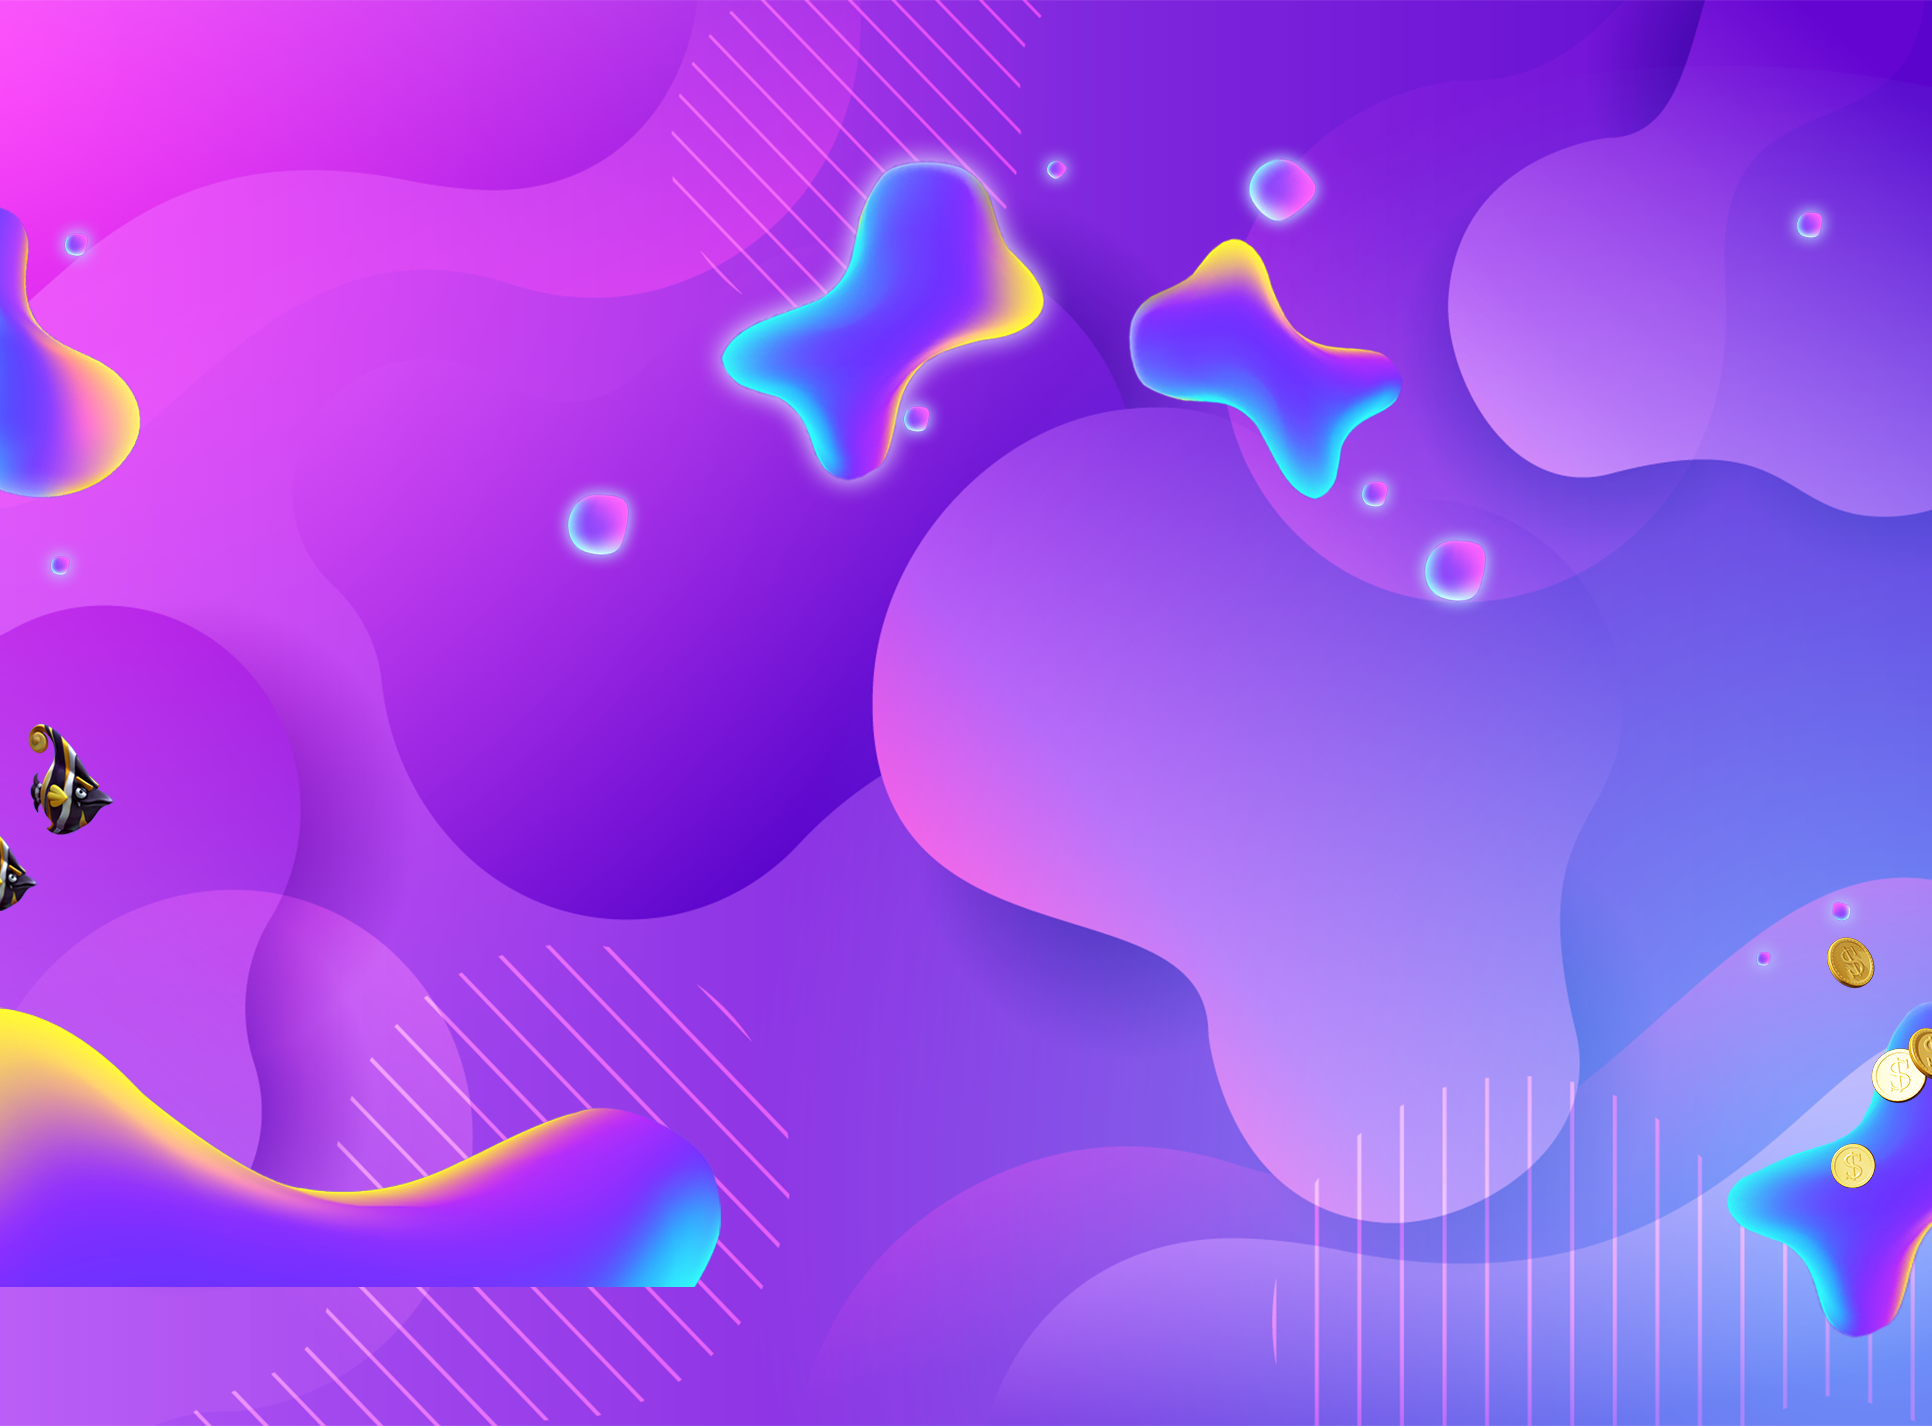
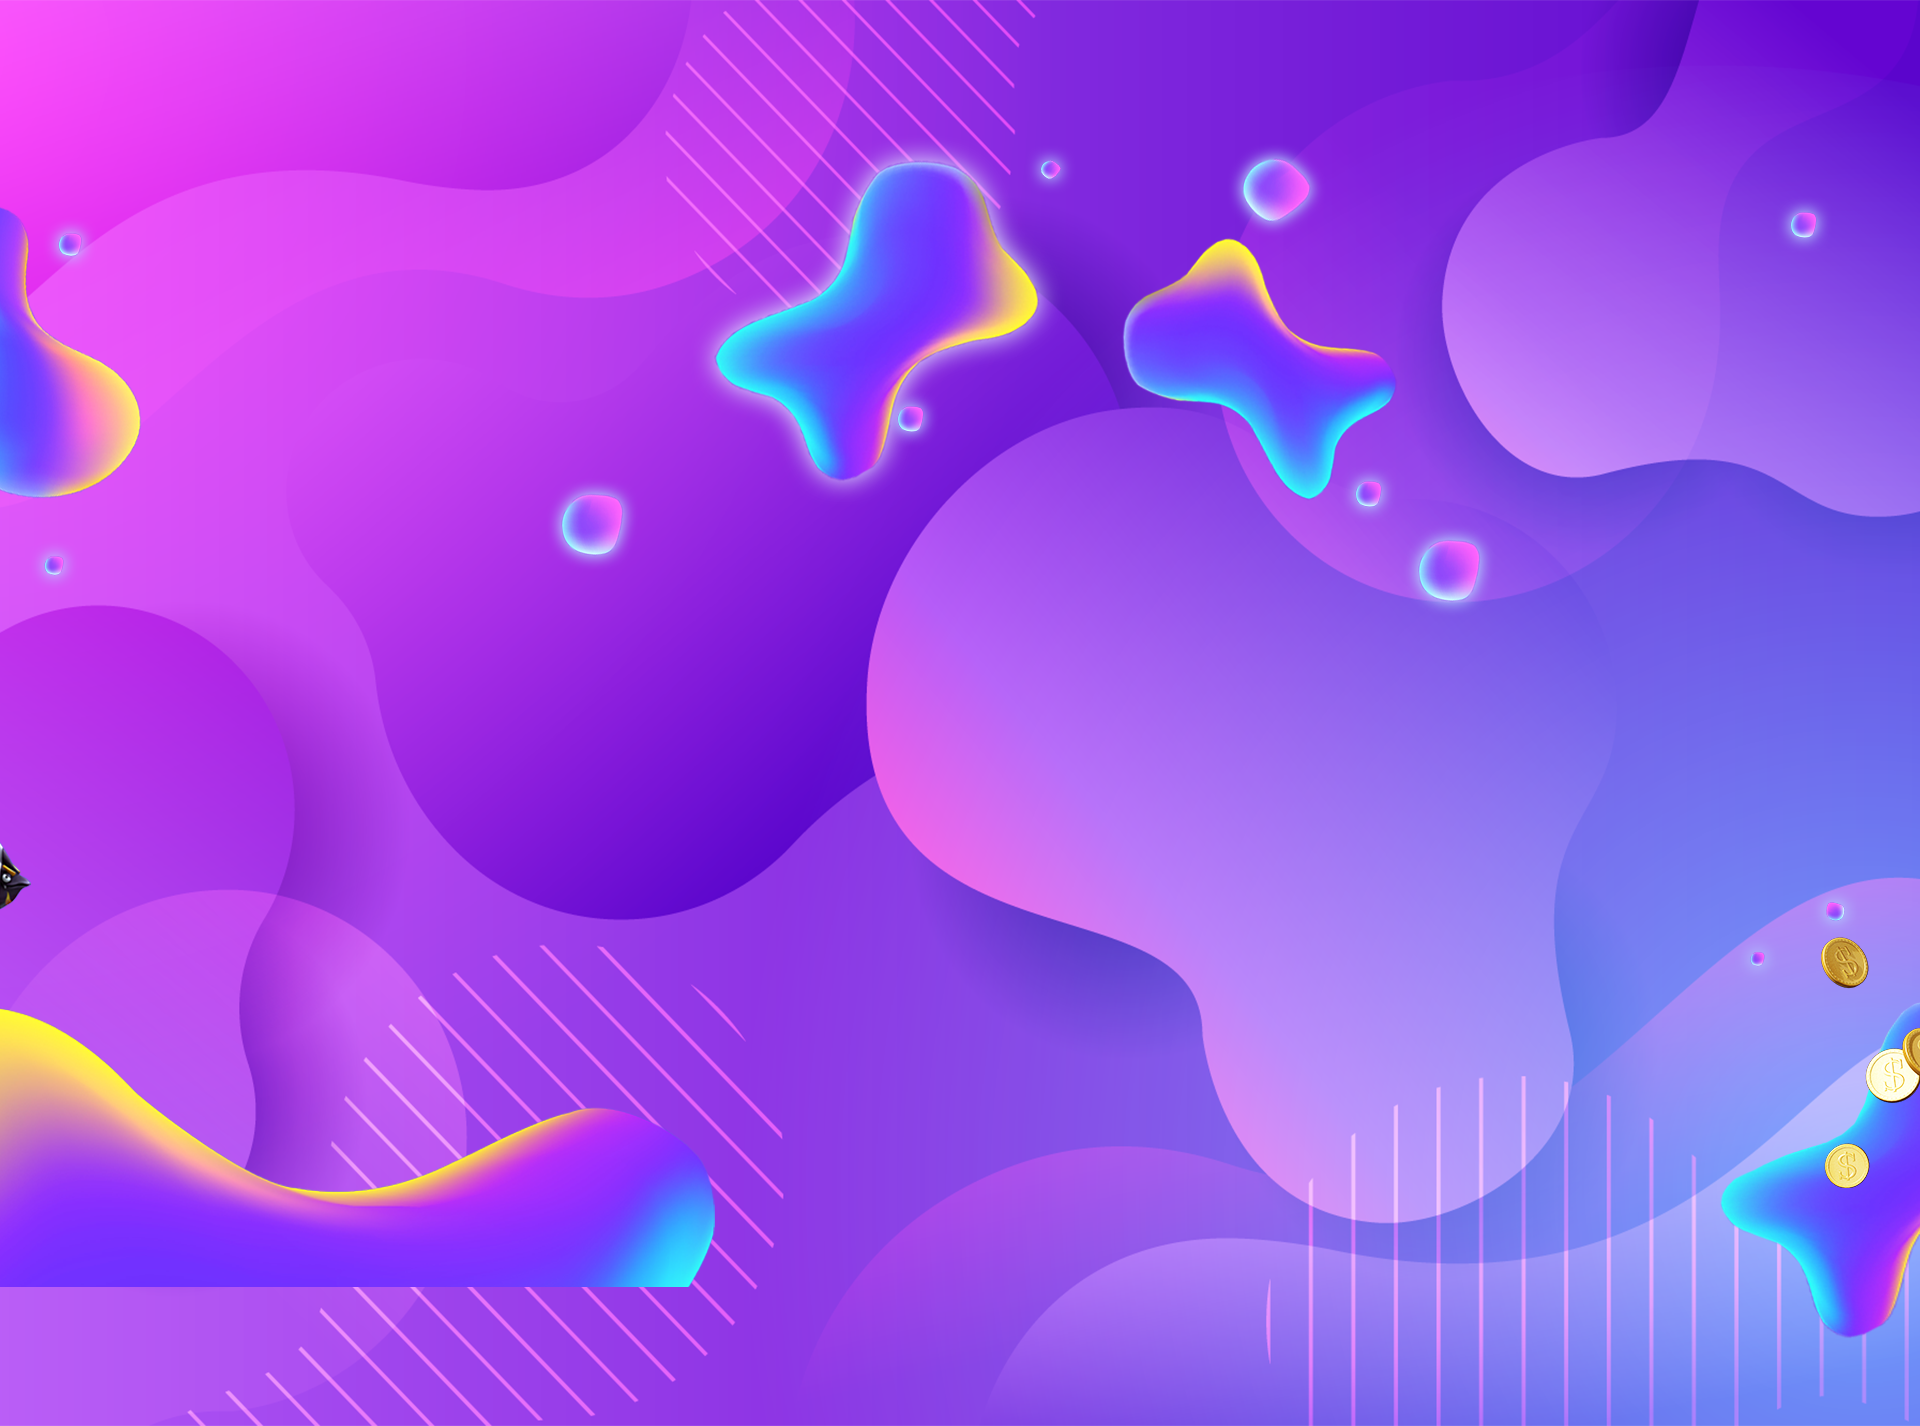
2

diff --git a/css/main.css b/css/main.css
@@ -395,6 +395,91 @@ html body .fix-left {
   bottom: 0;
   left: 0;
 }
+html body .top {
+  width: 78px;
+  height: 97px;
+  background: url(../img/top.png);
+  position: fixed;
+  bottom: 99px;
+  right: 90px;
+  cursor: pointer;
+}
+html body .fish {
+  width: 85px;
+  height: 111px;
+  background: url(../img/fiiiish.png) no-repeat;
+  position: fixed;
+  left: 20px;
+  -webkit-animation: box 3.5s infinite;
+          animation: box 3.5s infinite;
+}
+@-webkit-keyframes box {
+  0% {
+    top: 350px;
+  }
+  50% {
+    top: 320px;
+  }
+  100% {
+    top: 350px;
+  }
+}
+@keyframes box {
+  0% {
+    top: 350px;
+  }
+  50% {
+    top: 320px;
+  }
+  100% {
+    top: 350px;
+  }
+}
+html body .cell-download {
+  width: 62px;
+  height: 88px;
+  background: url(../img/fix-icon.png) no-repeat;
+  position: fixed;
+  top: 172px;
+  left: 20px;
+  cursor: pointer;
+}
+html body .cell-download .cell-img {
+  width: 35px;
+  height: 43px;
+  background: url(../img/iphon.png) no-repeat;
+  margin: 20px auto;
+}
+html body .cell-download:hover, html body .cell-download:active, html body .cell-download:active {
+  background-position-x: calc(100% - 0px);
+}
+html body .cell-download:hover .cell-img, html body .cell-download:active .cell-img, html body .cell-download:active .cell-img {
+  background-position-x: calc(100% - 0px);
+}
+html body .download-24 {
+  width: 62px;
+  height: 88px;
+  background: url(../img/fix-icon.png) no-repeat;
+  background-position-x: calc(100% - 0px);
+  position: fixed;
+  top: 172px;
+  right: 20px;
+  cursor: pointer;
+}
+html body .download-24 .download-24-img {
+  width: 41px;
+  height: 35px;
+  background: url(../img/24-icon.png);
+  background-position-x: calc(100% - 0px);
+  margin: 23px auto;
+  cursor: pointer;
+}
+html body .download-24:hover, html body .download-24:active, html body .download-24:active {
+  background-position-x: calc(100% + 63px);
+}
+html body .download-24:hover .download-24-img, html body .download-24:active .download-24-img, html body .download-24:active .download-24-img {
+  background-position-x: calc(100% + 41px);
+}
 html body .bg {
   width: 100%;
   height: 100%;

diff --git a/scss/main.scss b/scss/main.scss
@@ -417,6 +417,94 @@ html body {
         bottom: 0;
         left: 0;
     }
+
+    .top {
+        width: 78px;
+        height: 97px;
+        background: url(../img/top.png);
+        position: fixed;
+        bottom: 99px;
+        right: 90px;
+        cursor: pointer;
+    }
+    .fish {
+        width: 85px;
+        height: 111px;
+        background: url(../img/fiiiish.png) no-repeat;
+        position: fixed;
+        left: 20px;
+        animation:box 3.5s infinite; 
+
+        @keyframes box{
+            0%{
+                top:350px;
+            }
+    
+            50%{
+                top:320px; 
+            }
+    
+            100%{
+                top:350px;
+            }
+        }
+    
+    }
+    .cell-download {
+        width: 62px;
+        height: 88px;
+        background: url(../img/fix-icon.png) no-repeat;
+        position: fixed;
+        top: 172px;
+        left: 20px;
+        cursor: pointer;
+
+        .cell-img {
+            width: 35px;
+            height: 43px;
+            background: url(../img/iphon.png)no-repeat;
+            margin: 20px auto;
+        }
+
+        &:hover,&:active,&:active {
+            background-position-x: calc(100% - 0px);
+
+            .cell-img {
+                background-position-x: calc(100% - 0px);
+            }
+
+        }
+    }
+    
+    .download-24 {
+        width: 62px;
+        height: 88px;
+        background: url(../img/fix-icon.png) no-repeat;
+        background-position-x: calc(100% - 0px);
+        position: fixed;
+        top: 172px;
+        right: 20px;
+        cursor: pointer;
+
+        .download-24-img {
+            width: 41px;
+            height: 35px;
+            background: url(../img/24-icon.png);
+            background-position-x: calc(100% - 0px);
+            margin: 23px auto;
+            cursor: pointer;
+        }
+
+        &:hover,&:active,&:active {
+            background-position-x: calc(100% + 63px);
+
+            .download-24-img {
+                background-position-x:calc(100% + 41px);
+            }
+
+        }
+    }
+
     .bg {
         width: 100%;
         height: 100%;

diff --git a/index.html b/index.html
@@ -113,9 +113,14 @@
     <div class="top">
         <a href="#"></a>
     </div>
-
+    <div class="fish"></div>
     <div class="bg"></div>
-
+    <div class="cell-download">
+        <div class="cell-img"></div>
+    </div>
+    <div class="download-24">
+        <div class="download-24-img"></div>
+    </div>
      <!-- Swiper JS -->
      <script src="https://unpkg.com/swiper/swiper-bundle.min.js"></script>
      <!-- Initialize Swiper -->
